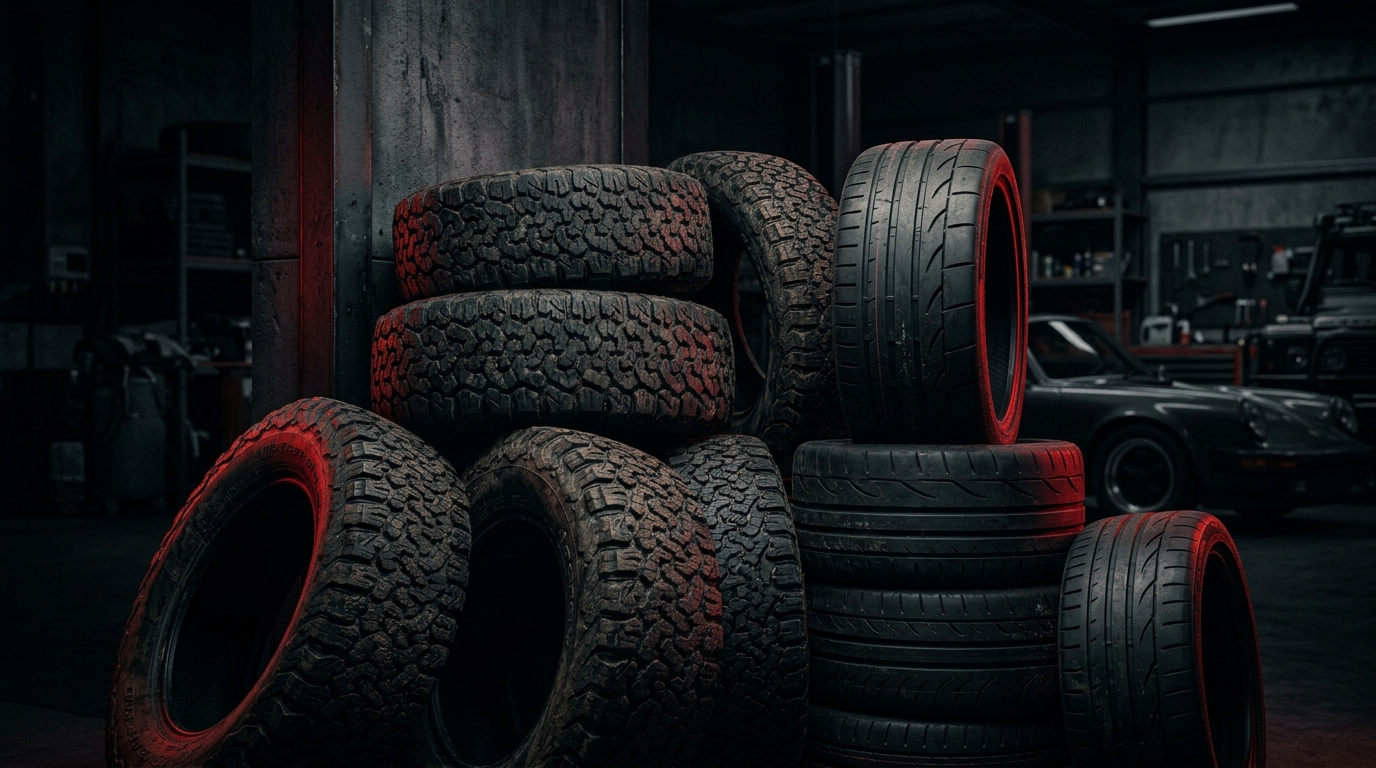
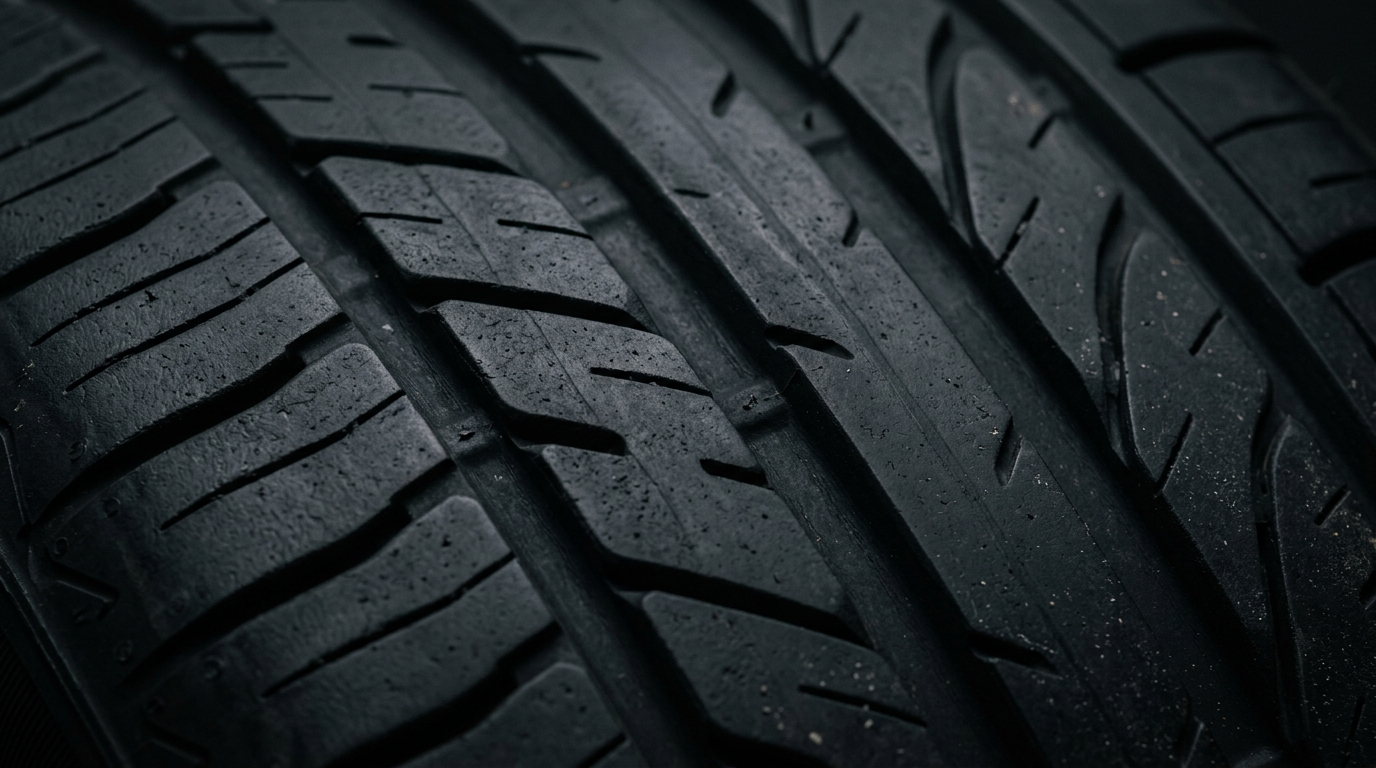
Finalize Hero section: fitted uncropped container box, realistic car tire tread texture background, and sleek search bar

diff --git a/tonys-tires/src/app/page.tsx b/tonys-tires/src/app/page.tsx
@@ -329,15 +329,16 @@ export default function Home() {
         {/* 2. Hero Section - Refactored to Match Banner Final Screenshot */}
         <section className="relative z-10 min-h-[540px] lg:min-h-[580px] flex items-center bg-slate-950 overflow-hidden">
 
-          {/* AI Cinematic Dark Tire Texture Background */}
+          {/* AI Cinematic Dark Tire Texture Background - 100% Evenly Balanced */}
           <div className="absolute inset-0 z-0 pointer-events-none select-none">
             <img 
               src="/hero_tire_bg.jpg" 
               alt="Tire Texture Background" 
-              className="w-full h-full object-cover object-center opacity-30 mix-blend-luminosity filter contrast-125 saturate-150" 
+              className="w-full h-full object-cover object-center opacity-45 filter contrast-120 brightness-110" 
             />
-            <div className="absolute inset-0 bg-gradient-to-r from-slate-950 via-slate-950/85 to-slate-950/60" />
-            <div className="absolute inset-0 bg-gradient-to-t from-slate-950 via-transparent to-slate-950/70" />
+            {/* Uniform Tint across Left and Right */}
+            <div className="absolute inset-0 bg-slate-950/50" />
+            <div className="absolute inset-0 bg-gradient-to-t from-slate-950 via-transparent to-slate-950/50" />
           </div>
 
           <div className="relative z-10 max-w-7xl mx-auto px-4 sm:px-6 w-full py-12 grid grid-cols-1 lg:grid-cols-12 gap-8 items-center">
@@ -410,12 +411,11 @@ export default function Home() {
 
                   {/* Popular Size Pills (Single Line Fit) */}
                   <div className="mt-3.5 pt-3 border-t border-slate-800/80 flex flex-nowrap items-center gap-1.5 text-xs overflow-x-auto scrollbar-none">
-                    <span className="text-slate-400 font-bold text-[10px] uppercase mr-1 shrink-0">Popular sizes:</span>
                     {['225/65R17', '235/60R18', '265/70R17', '275/65R18', '245/45R19', '195/65R15'].map(size => (
                       <button
                         key={size}
                         onClick={() => setSearchQuery(size)}
-                        className="bg-slate-950/80 hover:bg-red-600 hover:text-white text-slate-300 px-2 py-0.5 rounded-lg text-[10px] sm:text-[11px] font-extrabold border border-slate-800 hover:border-red-500 transition shrink-0 whitespace-nowrap"
+                        className="bg-slate-950/80 hover:bg-red-600 hover:text-white text-slate-300 px-2.5 py-1 rounded-lg text-[11px] sm:text-xs font-extrabold border border-slate-800 hover:border-red-500 transition shrink-0 whitespace-nowrap"
                       >
                         {size}
                       </button>
@@ -441,13 +441,13 @@ export default function Home() {
               </div>
             </div>
 
-            {/* Right Column: Large Trimmed Container Image Box */}
+            {/* Right Column: Clean Tight Box Wrapping Image Exact Height (No Blur, No Crop) */}
             <div className="lg:col-span-6 relative mt-6 lg:mt-0">
-              <div className="relative w-full h-[320px] sm:h-[380px] lg:h-[440px] rounded-3xl overflow-hidden border-2 border-red-600/90 shadow-2xl shadow-red-950/40 bg-slate-950 group">
+              <div className="relative w-full rounded-3xl overflow-hidden border-2 border-red-600/90 shadow-2xl shadow-red-950/40 bg-slate-950 p-1 group">
                 <img 
-                  src="/container_hero_trimmed.jpg" 
+                  src="/container_hero_raw.jpg" 
                   alt="Tony's Tirebox Self-Serve Container" 
-                  className="w-full h-full object-cover object-center group-hover:scale-105 transition duration-500" 
+                  className="w-full h-auto block rounded-2xl group-hover:scale-105 transition duration-500" 
                 />
               </div>
             </div>
